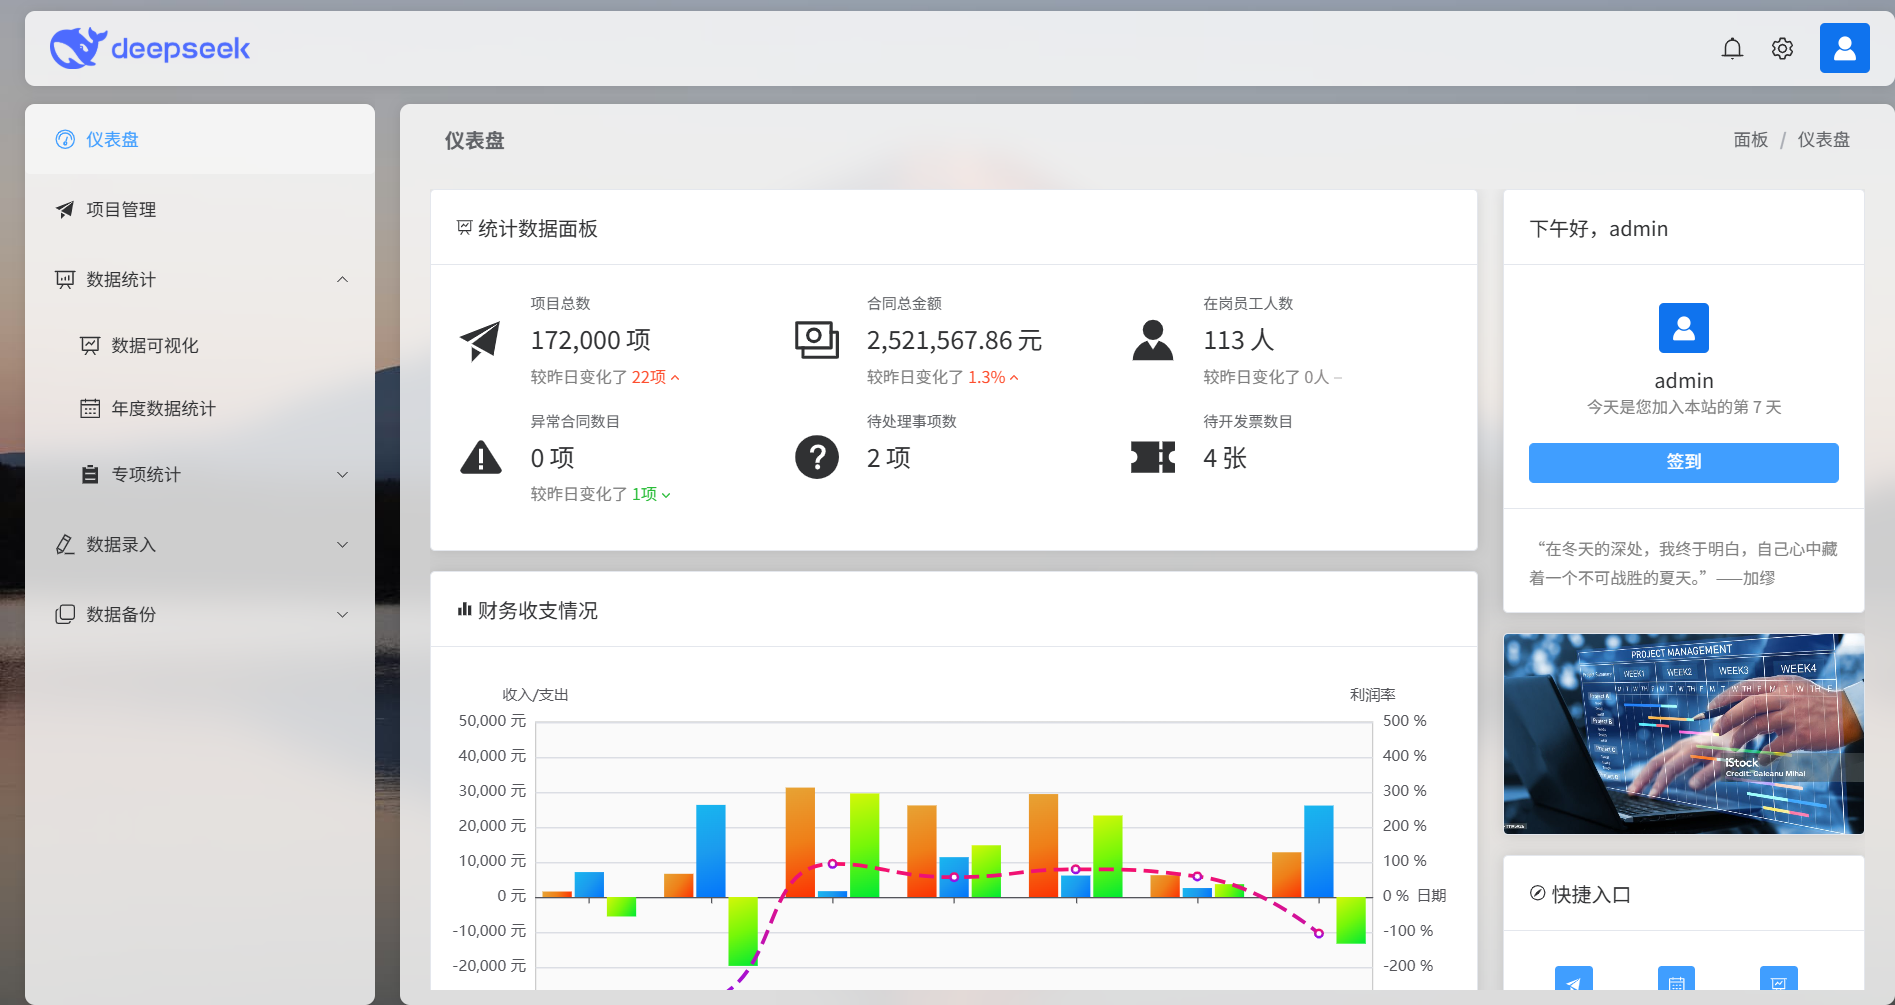
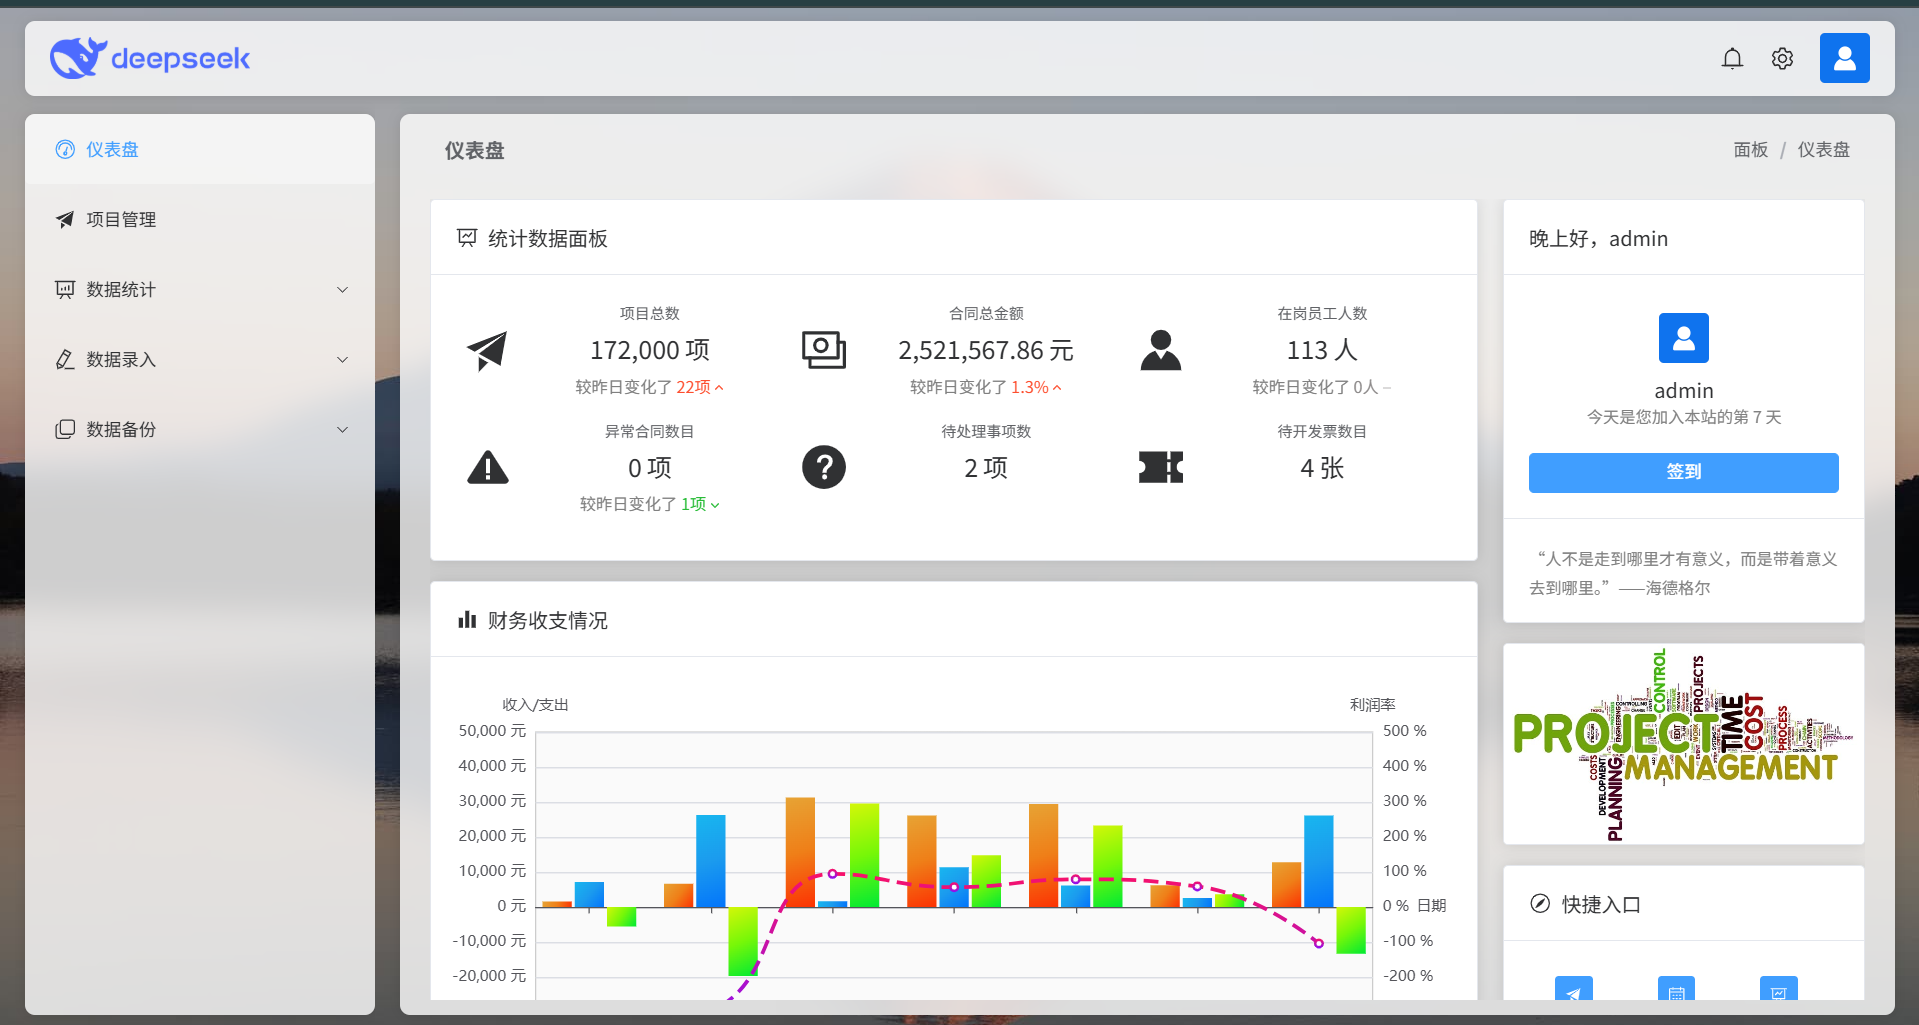
lite fix

diff --git a/src/components/Base/CustomCard.vue b/src/components/Base/CustomCard.vue
@@ -12,10 +12,10 @@ const slots = useSlots()
 </script>
 
 <template>
-<el-card :body-style="{ padding: noPadding ? 0 : undefined }">
+<el-card :body-style="{ padding: noPadding ? 0 : undefined }" header-class="custom-header">
     <template #header v-if="slots.header || header">
         <slot name="header">
-            <el-icon :size="14" :style="{ paddingRight: '4px' }" v-if="header?.icon">
+            <el-icon :size="18" :style="{ paddingRight: '8px' }" v-if="header?.icon">
                 <component :is="header?.icon" />
             </el-icon>
             <span>
@@ -36,6 +36,10 @@ const slots = useSlots()
 </el-card>
 </template>
 
-<style scoped>
-
+<style lang="css">
+.custom-header {
+    display: flex;
+    align-items: center;
+    justify-items: center;
+}
 </style>

diff --git a/src/views/Panel/Dashboard/index.vue b/src/views/Panel/Dashboard/index.vue
@@ -5,6 +5,7 @@ import UserInfoBoard from './components/UserInfoBoard.vue';
 import SideCarousel from './components/SideCarousel.vue';
 import AnnouncementBoard from './components/AnnouncementBoard.vue';
 import QuickEntry from './components/QuickEntry/index.vue';
+import ToDoList from './components/ToDoList/index.vue'
 </script>
 
 <template>
@@ -21,6 +22,7 @@ import QuickEntry from './components/QuickEntry/index.vue';
                 <user-info-board />
                 <side-carousel />
                 <quick-entry />
+                <to-do-list />
             </el-space>
         </el-aside>
     </el-container>

diff --git a/src/components/Base/CustomStatisticCard.vue b/src/components/Base/CustomStatisticCard.vue
@@ -51,7 +51,7 @@ setValue()
     <div class="card-outer">
         <div class="statistic-icon">
             <slot name="icon">
-                <div style="margin-right: 20px;">
+                <div>
                     <el-icon v-if="props.icon.fromElIcon" size="40">
                         <component :is="props.icon.fromElIcon" />
                     </el-icon>
@@ -109,6 +109,7 @@ setValue()
 <style scoped>
 .card-outer {
     display: flex;
+    text-align: center;
 }
 .statistic-icon {
     flex: 2;

diff --git a/src/views/Panel/Dashboard/components/AnnouncementBoard.vue b/src/views/Panel/Dashboard/components/AnnouncementBoard.vue
@@ -141,7 +141,7 @@ const calcTypeFromLevel = (level: number)  => {
 </script>
 
 <template>
-    <custom-card :header="{ icon: 'Notification', text: '公告栏' }" :no-padding="true">
+    <custom-card :header="{ icon: 'BellFilled', text: '公告栏' }" :no-padding="true">
         <custom-table 
             ref="customTableRef"
             :table-data="tableData" 

diff --git a/src/components/GeneralTable/CustomTable.vue b/src/components/GeneralTable/CustomTable.vue
@@ -53,7 +53,7 @@ defineExpose({ scrollToTop })
                 label="#" 
                 prop="index" 
                 v-if="props.indexWidth"
-                align="center"
+                :align="'center'"
                 :minWidth="props.indexWidth"
             >
                 <template #default="scope">

diff --git a/src/views/Panel/Dashboard/components/QuickEntry/components/EntryItem.vue b/src/views/Panel/Dashboard/components/QuickEntry/components/EntryItem.vue
@@ -36,6 +36,7 @@ const handleChangeRoute = () => {
 <style lang="css" scoped>
 .icon-area {
     margin: 3px 21px;
+    margin-bottom: 7px;
     display: flex;
     border-radius: 3px;
     background-color: var(--el-color-primary);

diff --git a/src/views/Panel/Dashboard/components/ToDoList/index.vue b/src/views/Panel/Dashboard/components/ToDoList/index.vue
@@ -1,0 +1,13 @@
+<script setup lang="ts">
+
+</script>
+
+<template>
+    <custom-card :header="{ icon: 'Finished', text: '待办事项' }">
+
+    </custom-card>
+</template>
+
+<style scoped lang="css">
+
+</style>
